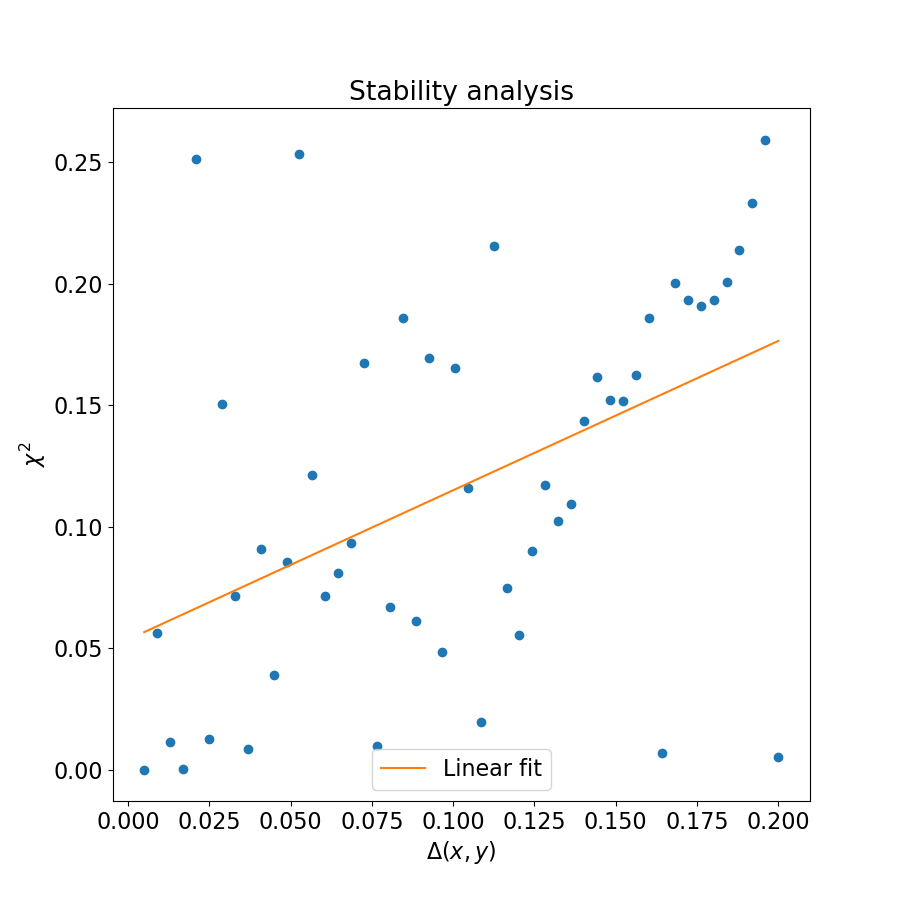
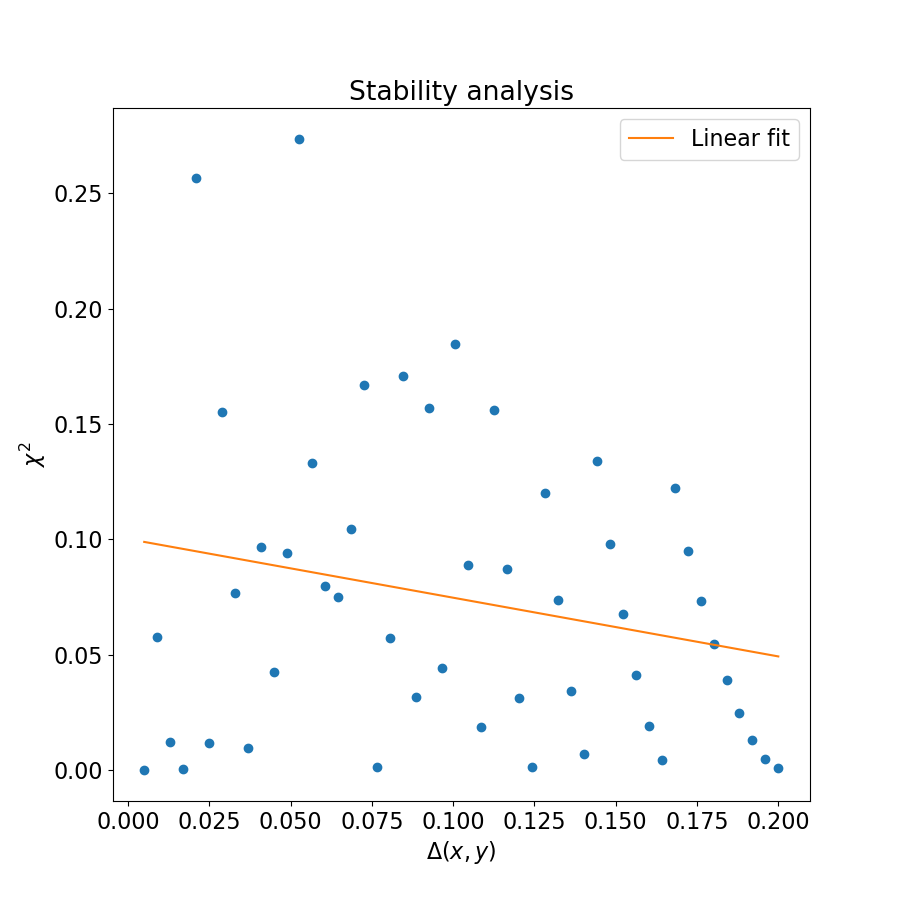
torsdag

diff --git a/project5/2D/dxy_analysis.py b/project5/2D/dxy_analysis.py
@@ -12,12 +12,14 @@ N = 50
 dxy = np.linspace(0.005,0.2, N)
 chi_arr = np.zeros((N))
 T_end = 0.02
+r = 4
+dt = dxy[0]**2/r
 
 a=0
 for i in range(N):
     a+=1
     print('computed = ',a,'/',N, end = "\r")
-    dt = dxy[i]**2/4
+    #dt = dxy[i]**2/r
     run_func(T_end, dt, dxy[i])
     data = np.loadtxt('data_2D.txt')
     xy = np.linspace(xy0,xy1,data.shape[0])
